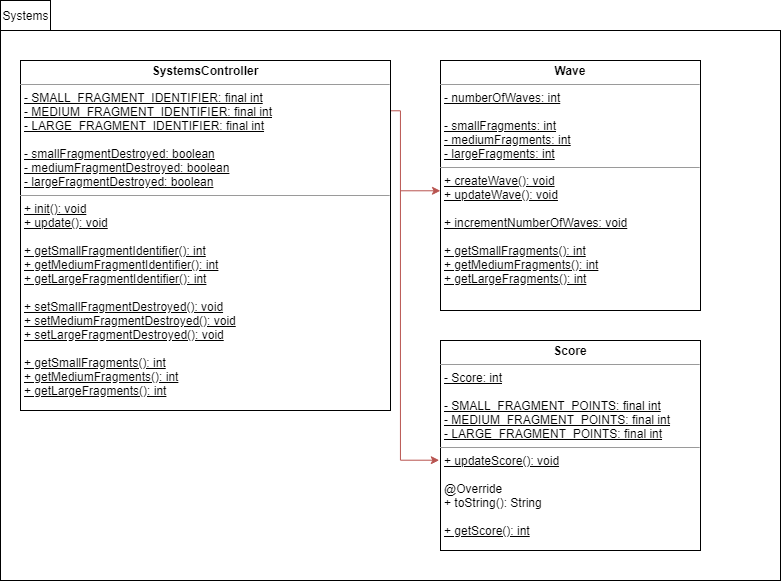
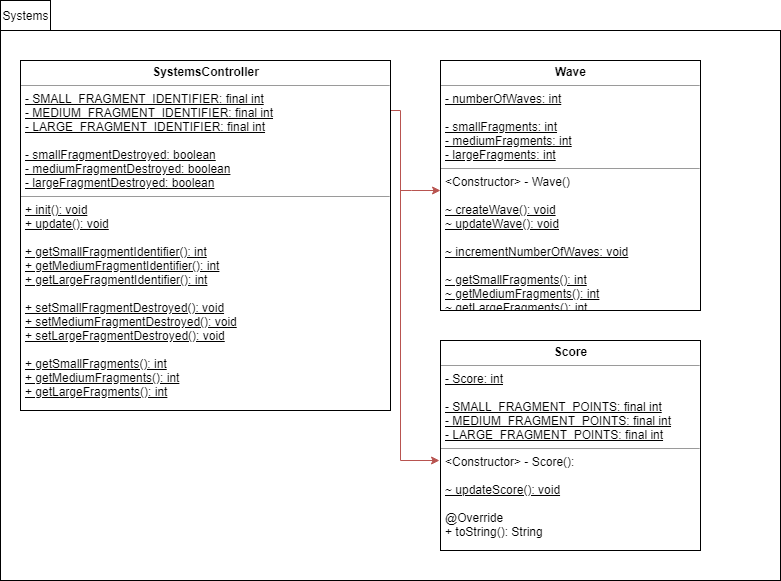
updated variables to defaults in Wave/Score & added private constructors.

diff --git a/SpacemanSpice/src/controller/systems/Wave.java b/SpacemanSpice/src/controller/systems/Wave.java
@@ -14,11 +14,11 @@ public class Wave {
     private static int mediumFragments;
     private static int largeFragments;
     
-        
+    private Wave(){}    
     /**
      * Method that creates a wave and sets values on each fragment variable
      */
-    public static void createWave(){
+    static void createWave(){
         System.out.println("New wave of fragments incoming!");
         System.out.println("Head to the scanning room to identify them");
         ResourcesController.setWaveTime(ResourcesController.getCurrentTime()+60);
@@ -36,7 +36,12 @@ public class Wave {
         else largeFragments = 0;
     }
     
-    public static void updateWave(int fragmentIdentifier){
+    /**
+     * 
+     * Updates wave by decreasing a fragment depending on its identifier
+     * @param fragmentIdentifier 
+     */
+    static void updateWave(int fragmentIdentifier){
         if(fragmentIdentifier == SystemsController.getSmallFragmentIdentifier()){
             --smallFragments;
         if(smallFragments < 0){

diff --git a/SpacemanSpice/src/controller/systems/Score.java b/SpacemanSpice/src/controller/systems/Score.java
@@ -12,11 +12,12 @@ public class Score {
     private final static int MEDIUM_FRAGMENT_POINTS = 10;
     private final static int LARGE_FRAGMENT_POINTS = 15;
     
+    private Score(){}
     /**
      * Method that updates score, based on fragment type.
      * @param fragmentIdentifier 
      */
-    public static void updateScore(int fragmentIdentifier){
+    static void updateScore(int fragmentIdentifier){
         if(fragmentIdentifier == SystemsController.getSmallFragmentIdentifier()){
             score += SMALL_FRAGMENT_POINTS;
         }
@@ -34,7 +35,7 @@ public class Score {
       return s;
     }
     
-    public static int getScore(){
+    static int getScore(){
         return score;
     }
 }
